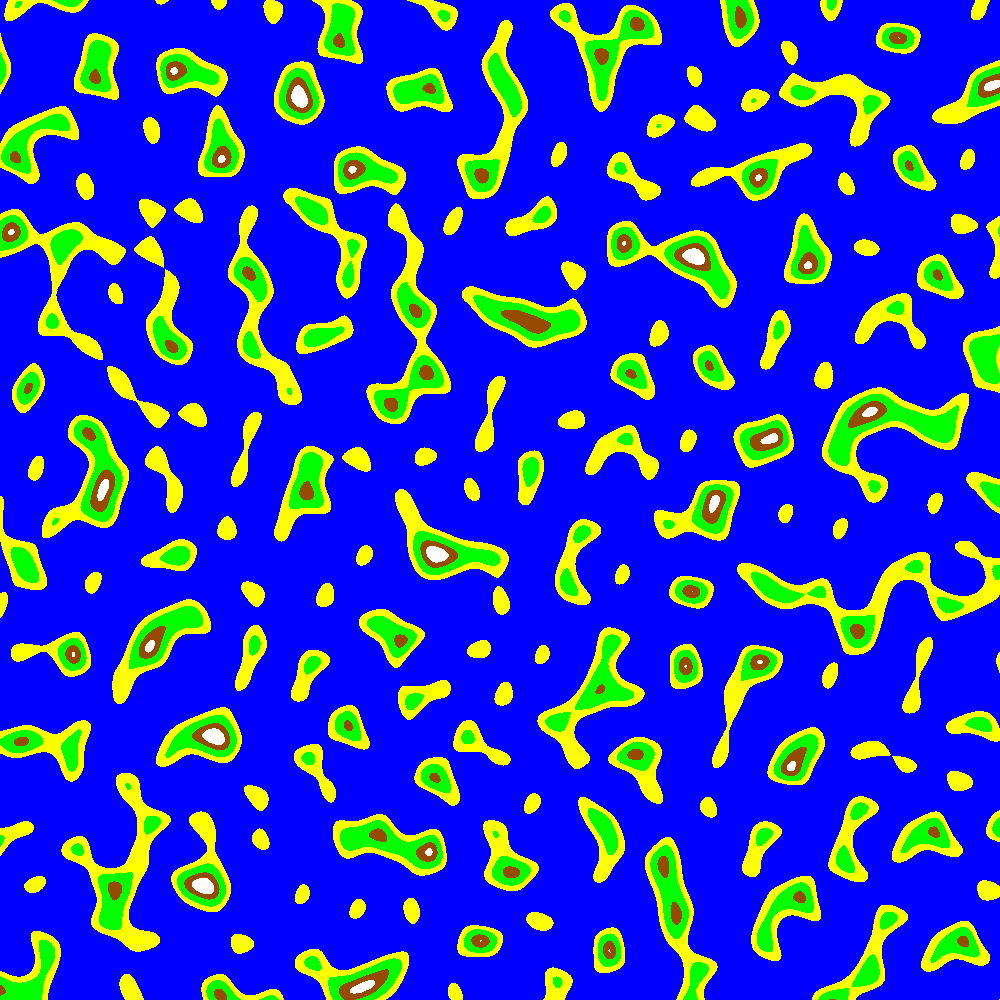
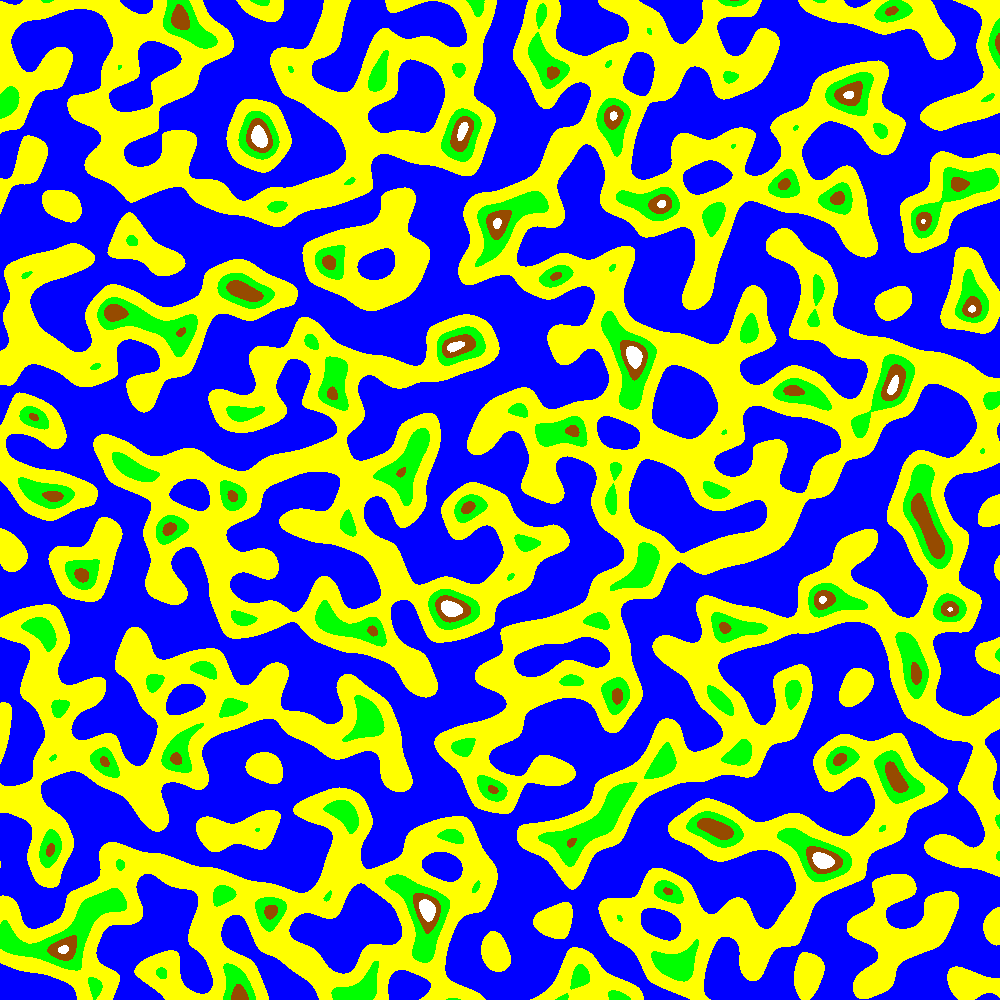
trying to make it an island

diff --git a/src/main.rs b/src/main.rs
@@ -2,27 +2,49 @@ use std::path::Path;
 
 use image::*;
 use opensimplex_noise_rs::*;
+use rng::*;
 use spatial2d::*;
 
 fn main() {
-    let mut terrain_map: Matrix<f32> = Matrix::new(UVec2 { x: 1000, y: 1000 });
+    //setting the size of the y and x axis
+    let x_size = 1000;
 
-    let mut image_buffer = RgbImage::new(1000, 1000);
+    let y_size = 1000;
 
-    let noise_generator = OpenSimplexNoise::new(None);
+    //creating a matrix based on x and y variable sizes
+    let mut terrain_map: Matrix<f32> = Matrix::new(UVec2 {
+        x: x_size,
+        y: y_size,
+    });
 
+    //creating a an image buffer based on the x and y variable sizes
+    let mut image_buffer = RgbImage::new(x_size, y_size);
+
+    //creating a variable for the Rng crate
+    let rng_generator = Rng::new();
+
+    //creating a variable to generate a random for the noise generator
+    let random_seed: i64 = rng_generator.gen_value();
+
+    //creating a random noise generator variable to be used in the loop
+    let noise_generator = OpenSimplexNoise::new(Some(random_seed));
+
+    //looping through the matrix and assigning noise values to each value in the matrix
     for (value, position) in terrain_map.iter_with_pos_mut() {
         let noise_value: f64 =
             noise_generator.eval_2d((position.x as f64) / 40.0, (position.y as f64) / 40.0);
-        *value = noise_value as f32;
+        let gradient = 500 - position;
+        *value = noise_value * gradient;
     }
 
+    //looping through the matrix again and assigning different colours to different values of the noise map and then assigning each pixel to the image buffer
     for (height, position) in terrain_map.iter_with_pos() {
         let pixel = get_colour(*height);
 
         image_buffer.put_pixel(position.x, position.y, pixel);
     }
 
+    //defining the path the image will be saved to
     let path = Path::new("terrain.png");
 
     let image = DynamicImage::ImageRgb8(image_buffer);
@@ -33,7 +55,7 @@ fn main() {
 }
 
 fn get_colour(height: f32) -> Rgb<u8> {
-    if height <= 0.3 {
+    if height <= 0.000001 {
         Rgb([0, 0, 255])
     } else {
         if height <= 0.5 {
